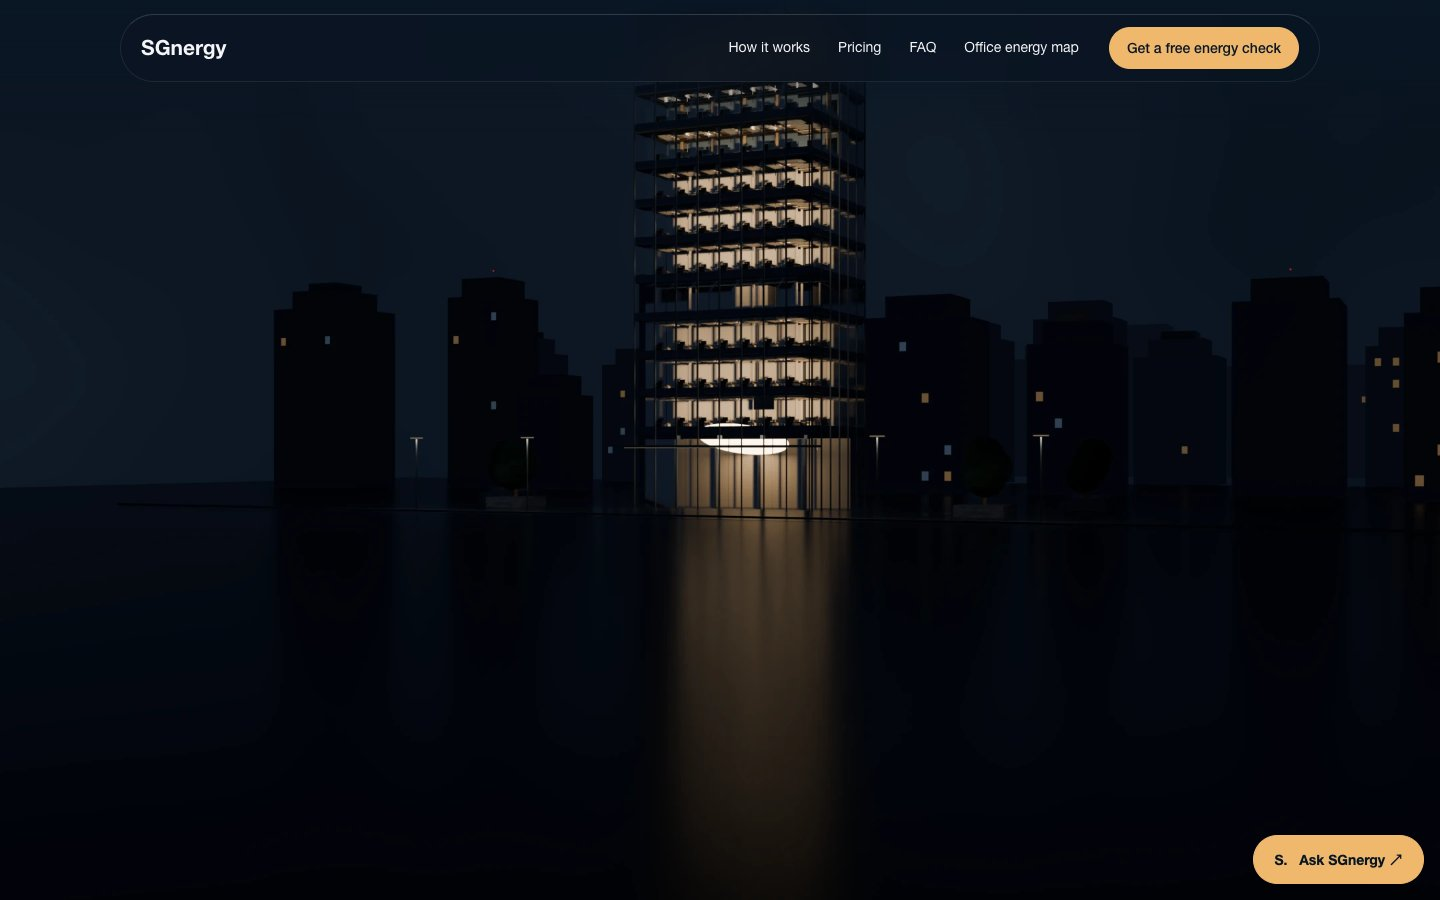
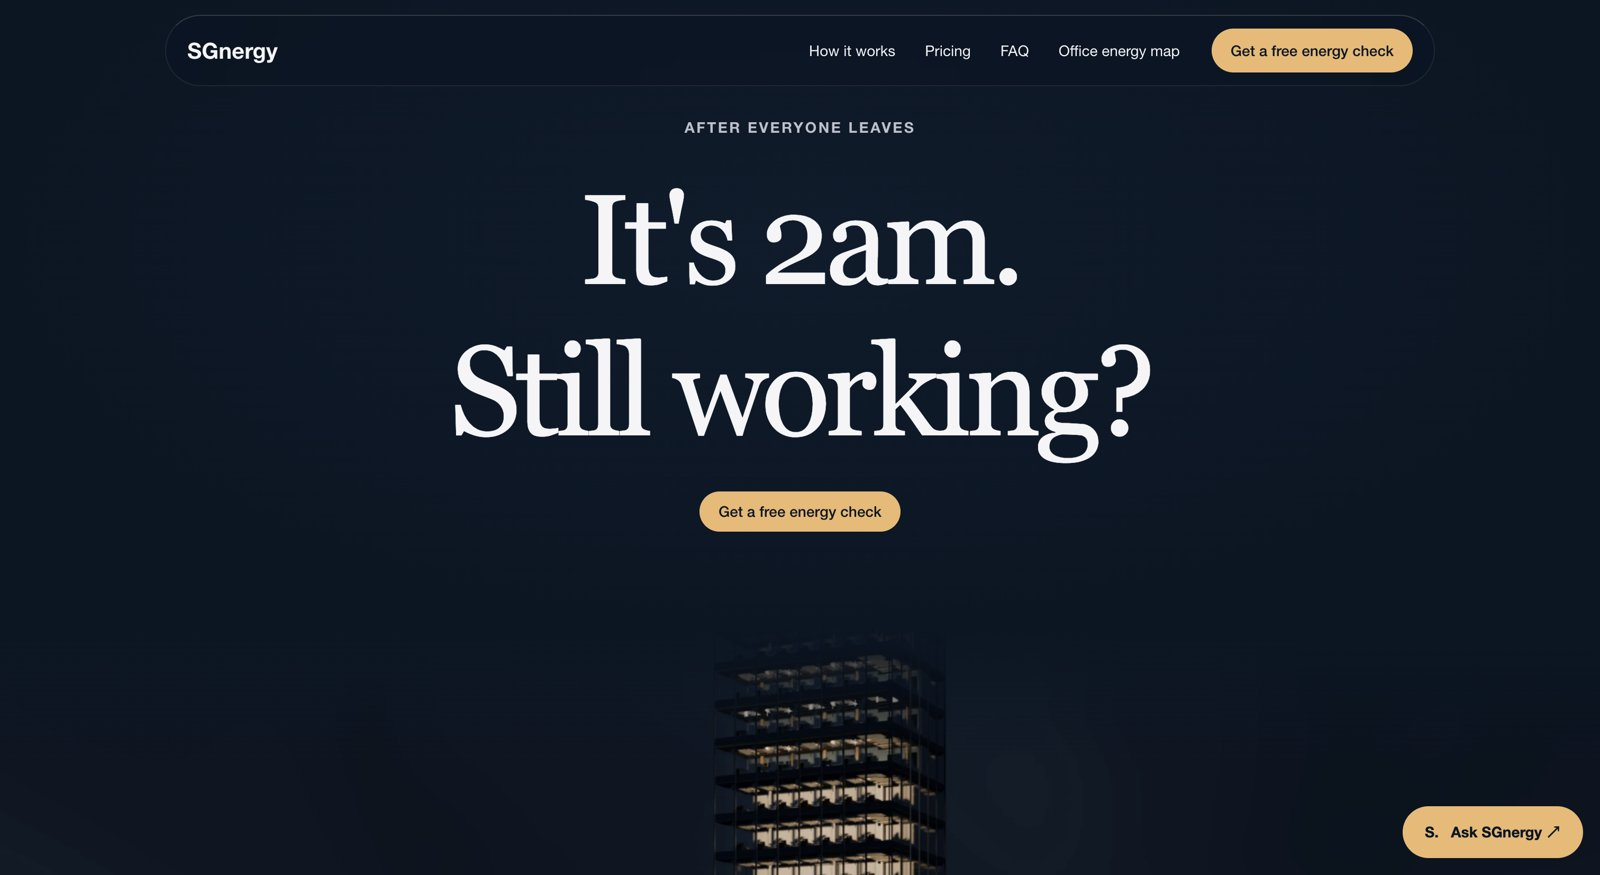
Use better website screenshots, add energy map

diff --git a/README.md b/README.md
@@ -18,9 +18,13 @@ Singapore offices often pay to light and cool empty buildings at night and on we
 
 Built and published on Hashmeta AI CMS by QwenWork: a scroll-driven 3D office at 2am, the Ask SGnergy chatbot, a free EUI check form, and a Singapore office energy map.
 
-| The empty office at night | What the report catches |
+| The empty office at night | Singapore office energy map |
 |---|---|
-| ![Office interior at night](docs/images/homepage-office-at-night.jpg) | ![Night waste, Saturday load and chiller drift cards](docs/images/homepage-clear-signals.jpg) |
+| ![Office interior at night](docs/images/homepage-office-at-night.jpg) | ![Office energy map of 638 public building records](docs/images/office-energy-map.jpg) |
+
+**What the report catches** (synthetic demo building):
+
+![Night waste, Saturday load and chiller drift cards](docs/images/homepage-clear-signals.jpg)
 
 ## How it works
 
